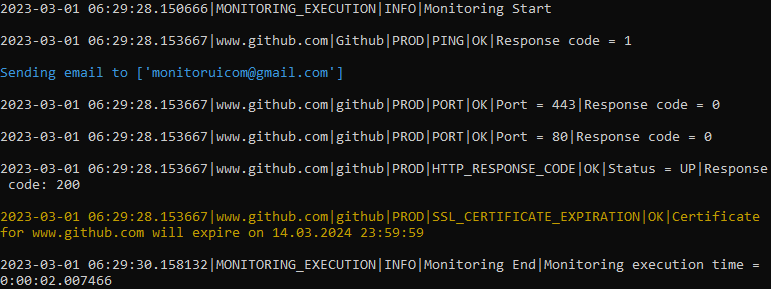
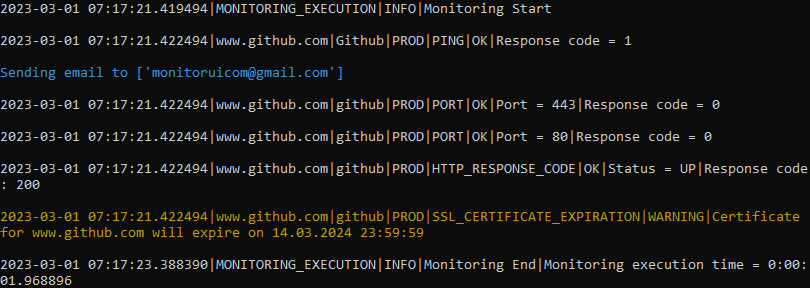
Comments cleaning, output of the network model finetune, documentation update

diff --git a/modules/functions/network_func.py b/modules/functions/network_func.py
@@ -59,9 +59,6 @@ def check_ping(sitename: str, env: str, logpath: str, hostname: str, url: str,
     ping_msg_up = f'Subject: {sitename} {env} Ping - UP' + '\n' + f'Hi, monitoring identified that {hostname} / PING is UP \n{url}'
 
     if responsecode != '1':
-        # message = f'{sitestarttime}|{site}|{systemname}|{env}|ERROR|PING|\r\n'
-        # print(Fore.YELLOW + message + Style.RESET_ALL)
-        # cf.write_file_append(logpath, message)
         message = f'{sitestarttime}|{site}|{systemname}|{env}|PING|ERROR|Response code = {responsecode}\r\n'
         print(Fore.YELLOW + message + Style.RESET_ALL)
         cf.write_file_append(logpath, message)
@@ -79,9 +76,6 @@ def check_ping(sitename: str, env: str, logpath: str, hostname: str, url: str,
         # return False
 
     else:
-        # message = f'{sitestarttime}|{site}|{systemname}|{env}|PING|OK\r\n'
-        # print(message)
-        # cf.write_file_append(logpath, message)
         message = f'{sitestarttime}|{site}|{systemname}|{env}|PING|OK|Response code = {responsecode}\r\n'
         print(message)
         cf.write_file_append(logpath, message)
@@ -153,9 +147,6 @@ def check_port(sitename: str, env: str, logpath: str, hostname: str, url: str, t
         port_msg_up = f'Subject: {sitename} {env} Port - UP' + '\n' + f'Hi, monitoring identified that {hostname} Port {port} is UP \n{url}'
 
         if responsecode != '0':
-            # message = f'{sitestarttime}|{site}|{systemname}|{env}|ERROR|Port {port}: Failed\r\n'
-            # print(Fore.YELLOW + message + Style.RESET_ALL)
-            # cf.write_file_append(logpath, message)
             message = f'{sitestarttime}|{site}|{systemname}|{env}|PORT|ERROR|Port={port}|Response code = {responsecode}\r\n'
             print(Fore.YELLOW + message + Style.RESET_ALL)
             cf.write_file_append(logpath, message)
@@ -173,9 +164,6 @@ def check_port(sitename: str, env: str, logpath: str, hostname: str, url: str, t
             # If discomment, whole loop will not continue to next item - port
             # return False
         else:
-            # message = f'{sitestarttime}|{site}|{systemname}|{env}|PORT|OK|Port = {port}\r\n'
-            # print(message)
-            # cf.write_file_append(logpath, message)
             message = f'{sitestarttime}|{site}|{systemname}|{env}|PORT|OK|Port = {port}|Response code = {responsecode}\r\n'
             print(message)
             cf.write_file_append(logpath, message)
@@ -287,12 +275,17 @@ def certificate_expiration_check(sitename: str, env: str, logpath: str, hostname
                     cf.remove_file_func(certificate_expiration_check_file)
 
             else:
-                message_cert_no_exp = f'{sitestarttime}|{site}|{systemname}|{env}|SSL_CERTIFICATE_EXPIRATION|OK|Certificate for {hostname} will expire on {cert_exp_date.strftime("%d.%m.%Y %H:%M:%S")}\r\n'
-                print(Fore.YELLOW + message_cert_no_exp + Style.RESET_ALL)
-                cf.write_file_append(logpath, message_cert_no_exp)
+                if (datetime.now() + timedelta(days=certificateexpirationtrigger1 - 1)).date() < cert_exp_date.date():
+                    message_cert_exp = f'{sitestarttime}|{site}|{systemname}|{env}|SSL_CERTIFICATE_EXPIRATION|WARNING|Certificate for {hostname} will expire on {cert_exp_date.strftime("%d.%m.%Y %H:%M:%S")}\r\n'
+                    print(Fore.YELLOW + message_cert_exp + Style.RESET_ALL)
+                    cf.write_file_append(logpath, message_cert_exp)
+                    cf.write_file(certificate_expiration_check_file, datetime.now().strftime("%d%m%Y"))
 
-                cf.write_file(certificate_expiration_check_file,
-                              datetime.now().strftime("%d%m%Y"))
+                else:
+                    message_cert_no_exp = f'{sitestarttime}|{site}|{systemname}|{env}|SSL_CERTIFICATE_EXPIRATION|INFO|Certificate for {hostname} will expire on {cert_exp_date.strftime("%d.%m.%Y %H:%M:%S")}\r\n'
+                    print(message_cert_no_exp)
+                    cf.write_file_append(logpath, message_cert_no_exp)
+                    cf.write_file(certificate_expiration_check_file, datetime.now().strftime("%d%m%Y"))
 
         except Exception as exep:
             exep_crt = f'{sitestarttime}|{site}|{systemname}|{env}|SSL_CERTIFICATE_EXPIRATION|ERROR|failed to obtain SSL certificate expiration info on {hostname} with Error = {exep}\r\n'

diff --git a/modules/functions/web_func.py b/modules/functions/web_func.py
@@ -60,9 +60,6 @@ def check_response_code(sitename: str, env: str, responsecode_state_file: str, u
         f'Hi,\nmonitoring identified that site {sitename} responsecode correspond to the definition.\n\n{url}\nExpected response code: {defined_responsecode}, obtained responsecode {obtained_responsecode}'
 
     if obtained_responsecode != defined_responsecode:
-        # message = f'{sitestarttime}|{site}|{systemname}|{env}|HTTP_RESPONSE_CODE|ERROR|State state: Down\r\n'
-        # print(Fore.YELLOW + message + Style.RESET_ALL)
-        # cf.write_file_append(logpath, message)
         message = f'{sitestarttime}|{site}|{systemname}|{env}|HTTP_RESPONSE_CODE|ERROR|Status = Down|Response code: {obtained_responsecode}\r\n'
         print(Fore.YELLOW + message + Style.RESET_ALL)
         cf.write_file_append(logpath, message)
@@ -79,9 +76,6 @@ def check_response_code(sitename: str, env: str, responsecode_state_file: str, u
             cf.write_current_state(obtained_responsecode, responsecode_state_file)
         return False
     else:
-        # message = f'{sitestarttime}|{site}|{systemname}|{env}|OK|Portal state: OK\r\n'
-        # print(message)
-        # cf.write_file_append(logpath, message)
         message = f'{sitestarttime}|{site}|{systemname}|{env}|HTTP_RESPONSE_CODE|OK|Status = UP|Response code: {obtained_responsecode}\r\n'
         print(message)
         cf.write_file_append(logpath, message)
